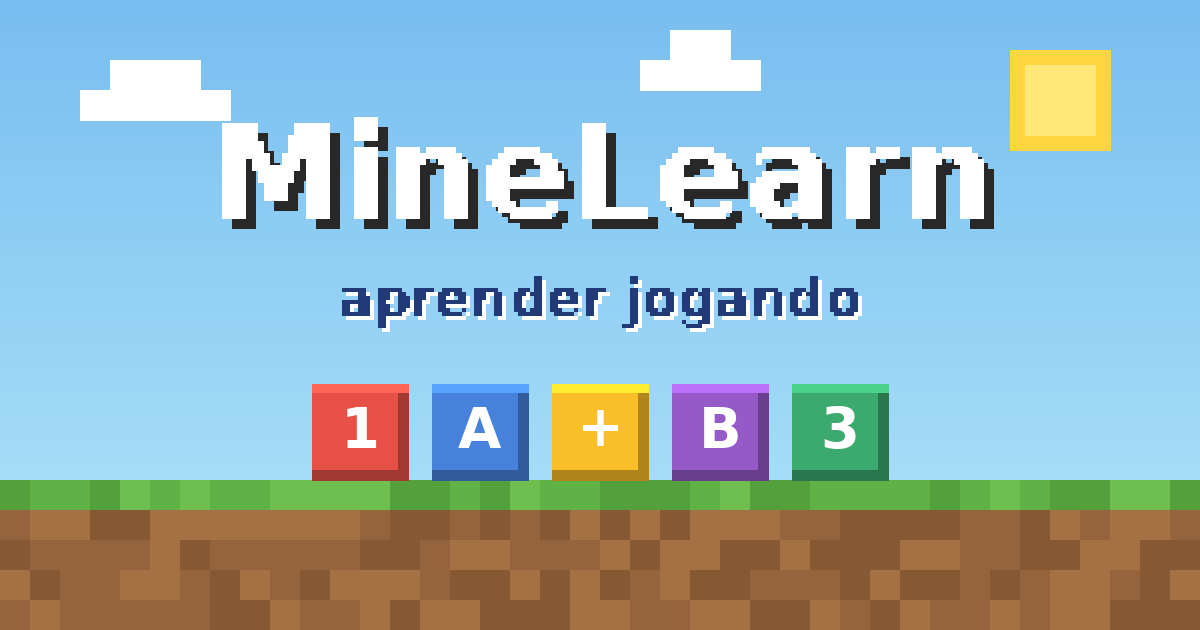
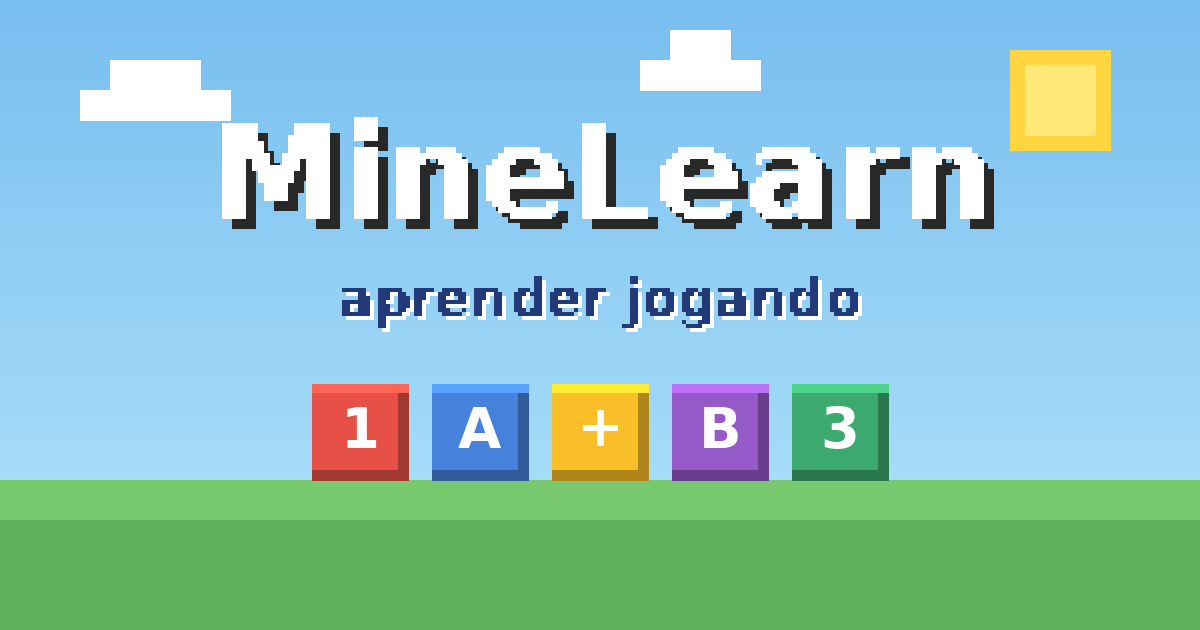
Fase 4 (a): landing, ícones e og-image com arte própria, sem personagens e bloco de grama do jogo

Changed region(s): [[0.0, 0.754, 1.0, 1.0]]

diff --git a/src/pages/LandingPage.tsx b/src/pages/LandingPage.tsx
@@ -1,8 +1,16 @@
 import { MinecraftButton } from '../components/ui/MinecraftButton';
-import { Mob } from '../components/mobs/Mob';
 import { ItemArt } from '../components/activities/shared/ItemArt';
 import { AGE_GROUPS } from '../lib/constants';
 import { FAQ, PRODUCT, formatBRL } from '../config/product';
+
+/** Blocos do topo (arte própria: letras e números, como no og-image). */
+const HERO_BLOCKS = [
+  { text: '1', color: 'bg-red-500' },
+  { text: 'A', color: 'bg-blue-500' },
+  { text: '+', color: 'bg-amber-500' },
+  { text: 'B', color: 'bg-purple-500' },
+  { text: '3', color: 'bg-emerald-600' },
+];
 
 const STEPS = [
   { icon: '👨👧', title: 'Crie sua conta', text: 'Você cria o login e a senha de cada criança na Área dos Pais.' },
@@ -48,10 +56,15 @@ export function LandingPage() {
               </MinecraftButton>
             </div>
           </div>
-          <div className="flex justify-center items-end gap-4" aria-hidden="true">
-            <Mob type="alex" size={110} animation="celebrate" />
-            <Mob type="pig" size={70} animation="idle" />
-            <Mob type="creeper" size={80} animation="jump" />
+          <div className="flex justify-center items-end gap-2 sm:gap-3" aria-hidden="true">
+            {HERO_BLOCKS.map((b, i) => (
+              <span
+                key={b.text}
+                className={`${b.color} w-14 h-14 sm:w-20 sm:h-20 flex items-center justify-center font-minecraft text-xl sm:text-3xl text-white border-b-8 border-r-4 border-black/25 shadow-lg ${i % 2 ? 'mb-6' : ''}`}
+              >
+                {b.text}
+              </span>
+            ))}
           </div>
         </div>
         <div className="absolute inset-x-0 bottom-0 h-6 bg-minecraft-green" aria-hidden="true" />

diff --git a/scripts/app-icons.py b/scripts/app-icons.py
@@ -1,0 +1,35 @@
+# Gera os ícones do app (arte original: bloco azul com "M" em pixel, no céu):
+#   python3 scripts/app-icons.py public/icons
+import sys
+from PIL import Image, ImageDraw
+
+OUT = sys.argv[1]
+SKY = (135, 206, 235)
+BLUE, DARK, LIGHT = (70, 130, 220), (46, 90, 160), (120, 170, 240)
+# "M" em grade 7x7 (1 = pixel branco)
+M = ['1000001', '1100011', '1010101', '1001001', '1000001', '1000001', '1000001']
+
+def icon(size: int, block_ratio: float) -> Image.Image:
+    img = Image.new('RGB', (size, size), SKY)
+    d = ImageDraw.Draw(img)
+    b = int(size * block_ratio)
+    x0 = y0 = (size - b) // 2
+    edge = max(2, b // 12)
+    d.rectangle([x0, y0, x0 + b - 1, y0 + b - 1], fill=BLUE)
+    d.rectangle([x0, y0, x0 + b - 1, y0 + edge - 1], fill=LIGHT)
+    d.rectangle([x0, y0 + b - edge, x0 + b - 1, y0 + b - 1], fill=DARK)
+    d.rectangle([x0 + b - edge, y0, x0 + b - 1, y0 + b - 1], fill=DARK)
+    px = b // 11
+    mx = x0 + (b - 7 * px) // 2
+    my = y0 + (b - 7 * px) // 2
+    for r, row in enumerate(M):
+        for c, v in enumerate(row):
+            if v == '1':
+                d.rectangle([mx + c * px, my + r * px, mx + (c + 1) * px - 1, my + (r + 1) * px - 1], fill=(255, 255, 255))
+    return img
+
+icon(192, 0.84).save(f'{OUT}/icon-192.png', optimize=True)
+icon(512, 0.84).save(f'{OUT}/icon-512.png', optimize=True)
+icon(180, 0.84).save(f'{OUT}/apple-touch-icon.png', optimize=True)
+icon(512, 0.6).save(f'{OUT}/maskable-512.png', optimize=True)  # área segura do ícone adaptável
+print('ok')

diff --git a/scripts/og-image.py b/scripts/og-image.py
@@ -1,6 +1,6 @@
 # Gera public/og-image.png (arte original):  python3 scripts/og-image.py public/og-image.png
 # Arte original do og-image do MineLearn: céu, sol, blocos com letras e números, nome em pixel.
-import random, sys
+import sys
 from PIL import Image, ImageDraw, ImageFont
 W, H = 1200, 630
 out = sys.argv[1]
@@ -19,16 +19,9 @@ def cloud(x, y, w):
     for i in range(1, w - 1):
         d.rectangle([x + i * 30, y - 30, x + i * 30 + 30, y], fill=(255, 255, 255))
 cloud(80, 90, 5); cloud(640, 60, 4)
-# chão: faixa verde + terra em pixels
-rnd = random.Random(7)
-S = 30
-for x in range(0, W, S):
-    for y in range(H - 150, H, S):
-        if y == H - 150:
-            c = rnd.choice([(96, 178, 70), (84, 160, 60), (110, 190, 80)])
-        else:
-            c = rnd.choice([(150, 100, 60), (135, 88, 52), (165, 112, 68)])
-        d.rectangle([x, y, x + S - 1, y + S - 1], fill=c)
+# chão liso (gramado claro e faixa mais escura), sem textura de blocos
+d.rectangle([0, H - 150, W, H], fill=(120, 200, 110))
+d.rectangle([0, H - 110, W, H], fill=(96, 176, 92))
 # texto em pixel: desenha pequeno e amplia sem suavizar
 def pixel_text(text, size, scale, color, shadow):
     font = ImageFont.truetype('/usr/share/fonts/truetype/dejavu/DejaVuSans-Bold.ttf', size)
